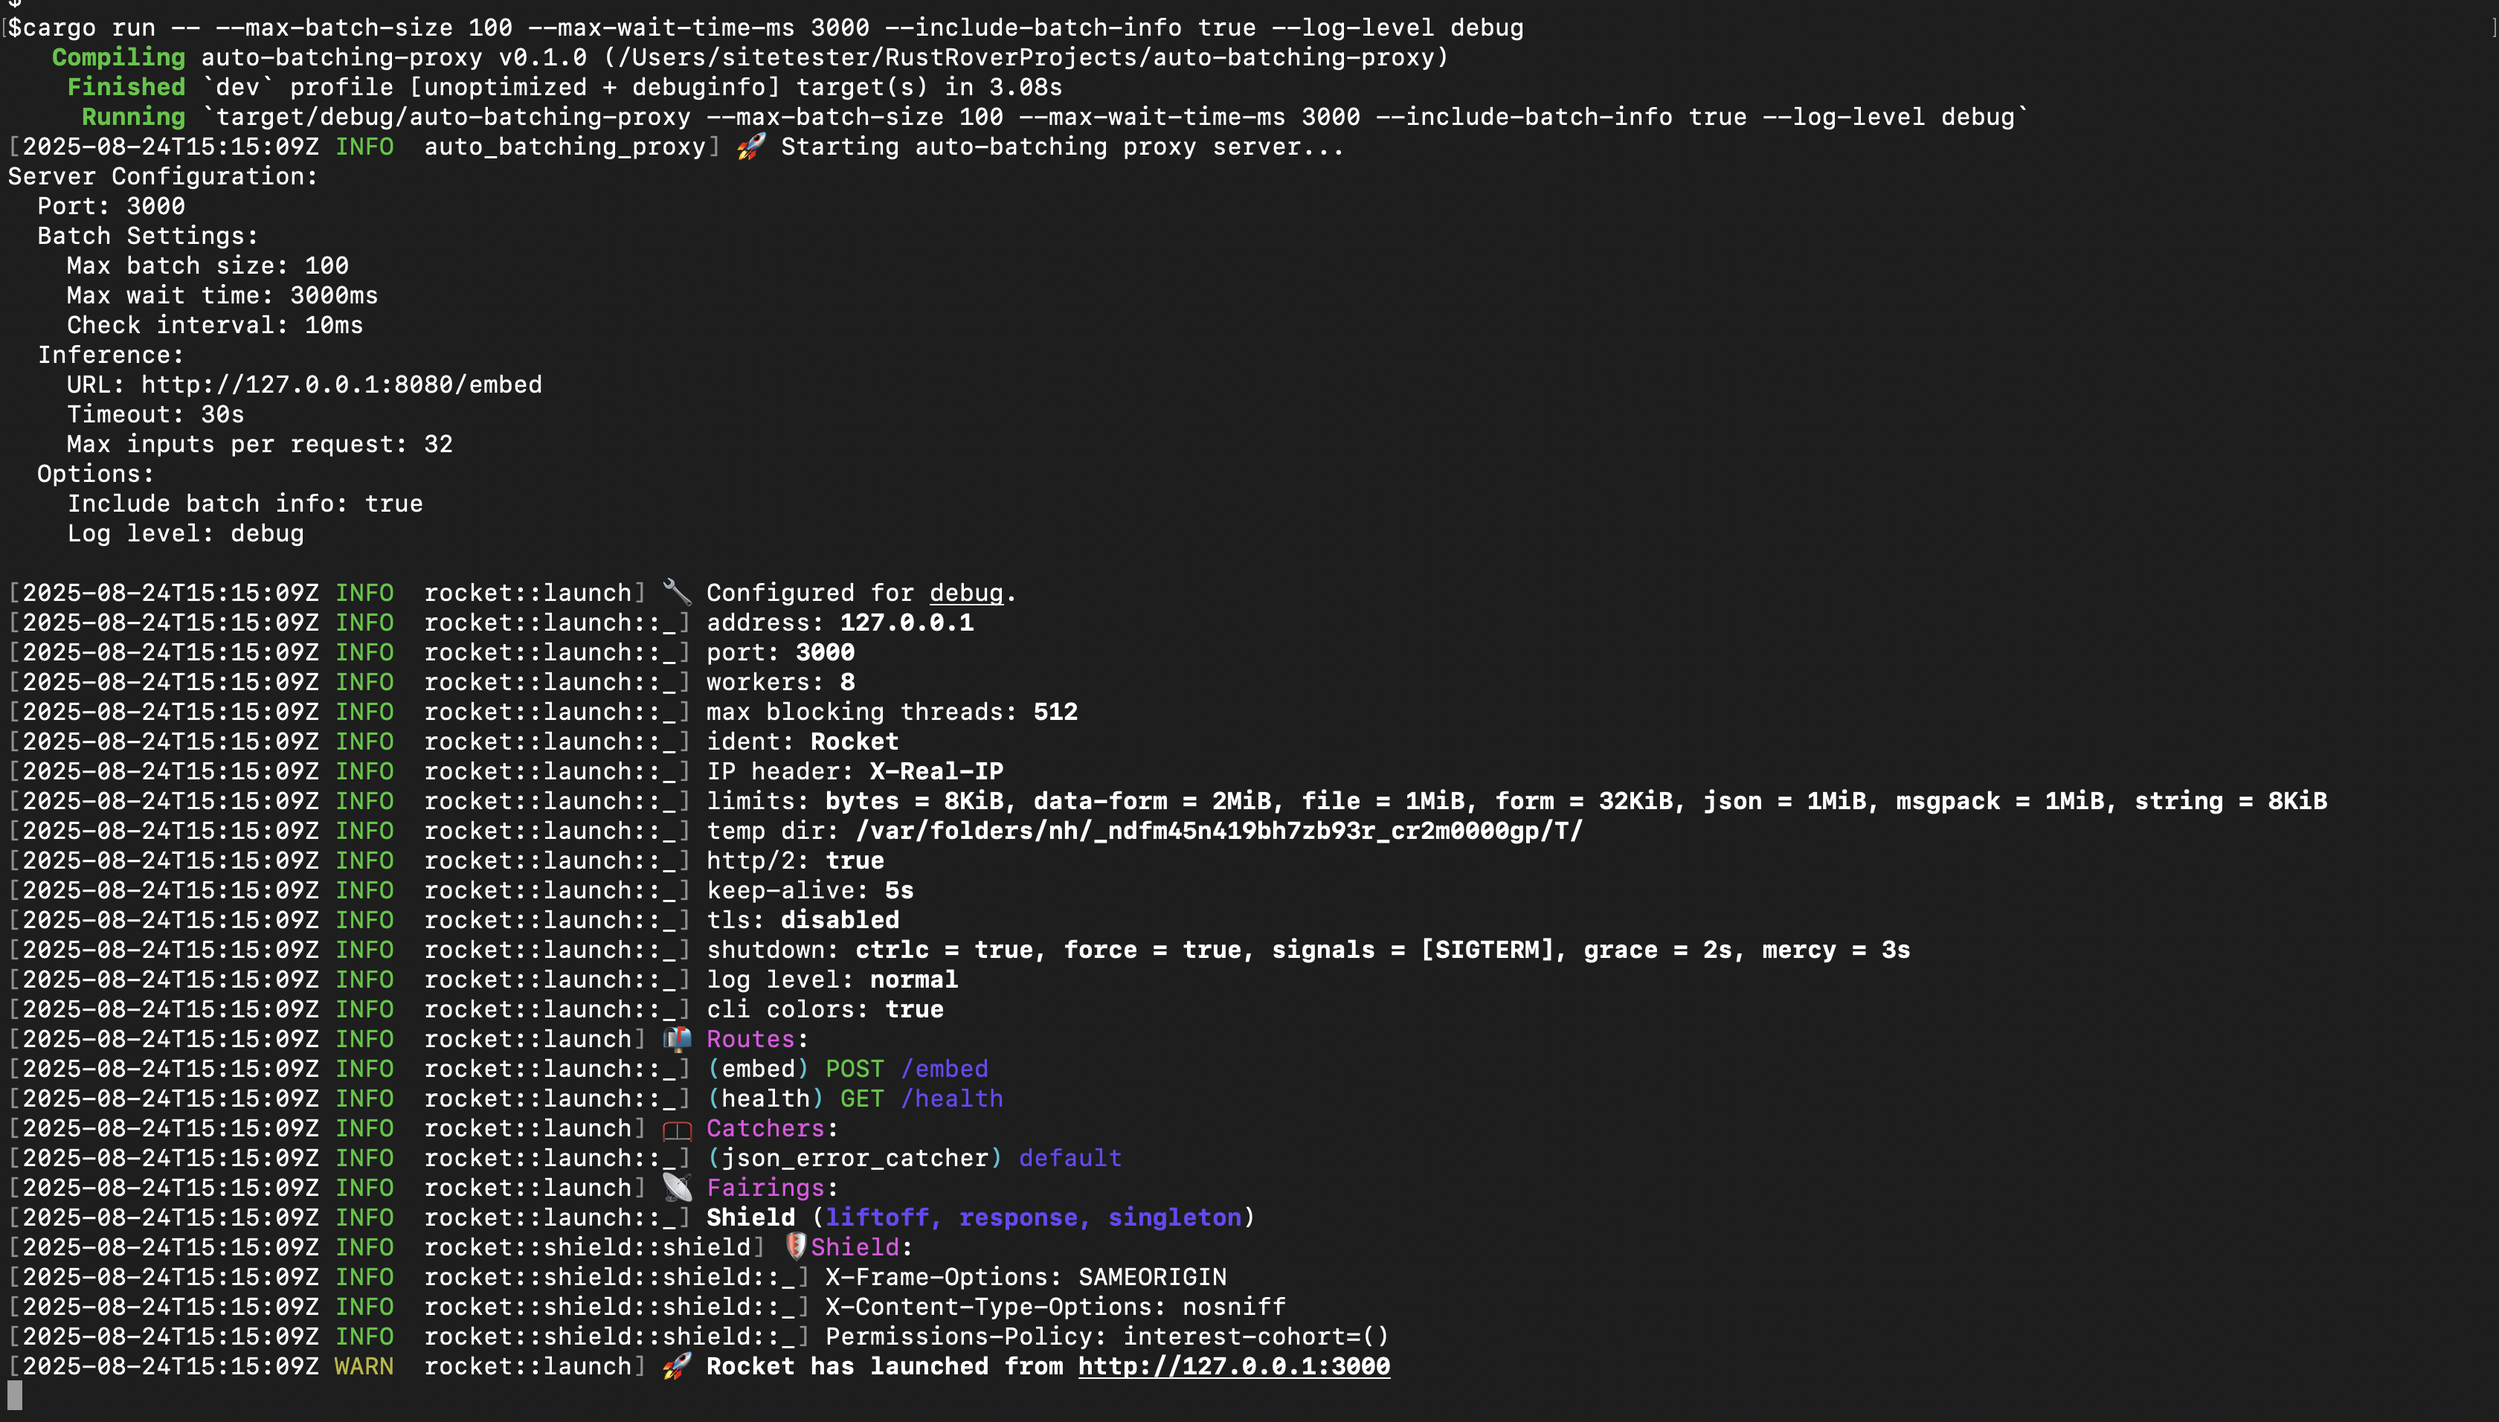
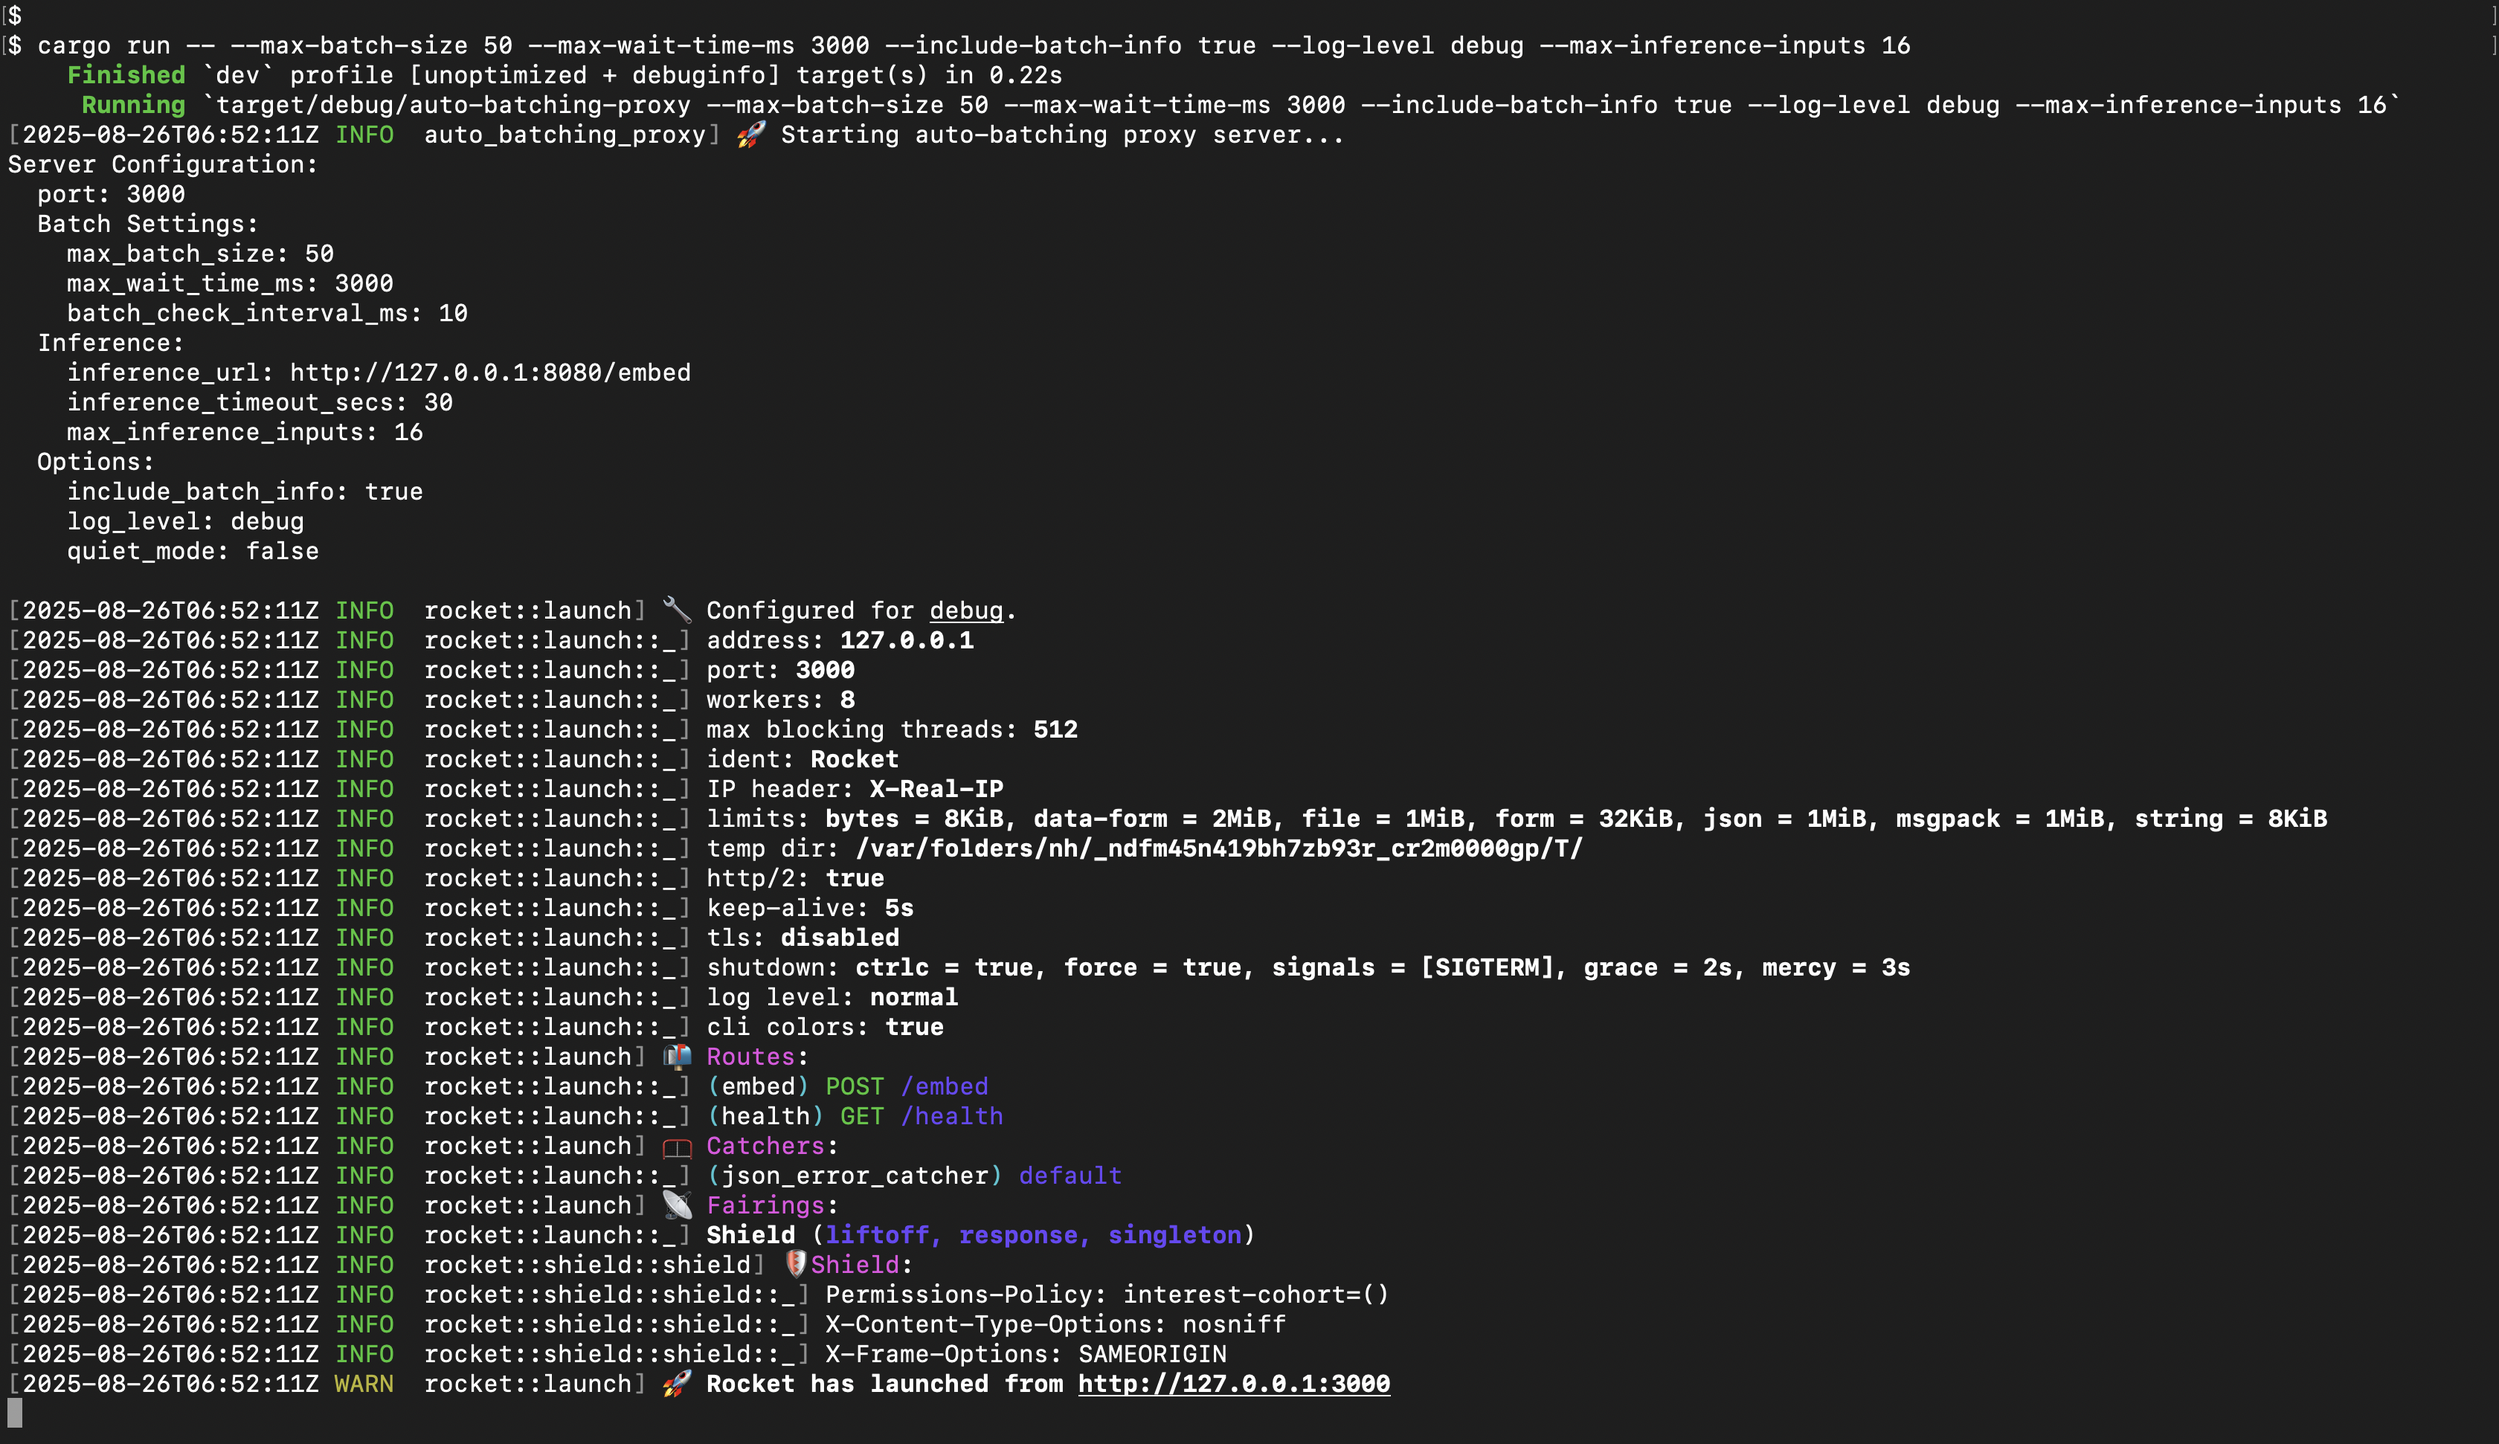
Update config & screenshots

Changed region(s): [[0.0, 0.0, 0.9375, 0.9874], [0.4688, 0.8332, 0.5, 0.864]]

diff --git a/src/main.rs b/src/main.rs
@@ -20,21 +20,19 @@ async fn rocket() -> Rocket<Build> {
     info!("🚀 Starting auto-batching proxy server...");
 
     println!("Server Configuration:");
-    println!("  Port: {}", config.port);
+    println!("  port: {}", config.port);
     println!("  Batch Settings:");
-    println!("    Max batch size: {}", config.max_batch_size);
-    println!("    Max wait time: {}ms", config.max_wait_time_ms);
-    println!("    Check interval: {}ms", config.batch_check_interval_ms);
+    println!("    max_batch_size: {}", config.max_batch_size);
+    println!("    max_wait_time_ms: {}", config.max_wait_time_ms);
+    println!("    batch_check_interval_ms: {}", config.batch_check_interval_ms);
     println!("  Inference:");
-    println!("    URL: {}", config.inference_url);
-    println!("    Timeout: {}s", config.inference_timeout_secs);
-    println!(
-        "    Max inputs per request: {}",
-        config.max_inference_inputs
-    );
+    println!("    inference_url: {}", config.inference_url);
+    println!("    inference_timeout_secs: {}", config.inference_timeout_secs);
+    println!("    max_inference_inputs: {}", config.max_inference_inputs);
     println!("  Options:");
-    println!("    Include batch info: {}", config.include_batch_info);
-    println!("    Log level: {}", config.log_level);
+    println!("    include_batch_info: {}", config.include_batch_info);
+    println!("    log_level: {}", config.log_level);
+    println!("    quiet_mode: {}", config.quiet_mode);  // Add this too!
     println!();
 
     build_rocket(config).await
